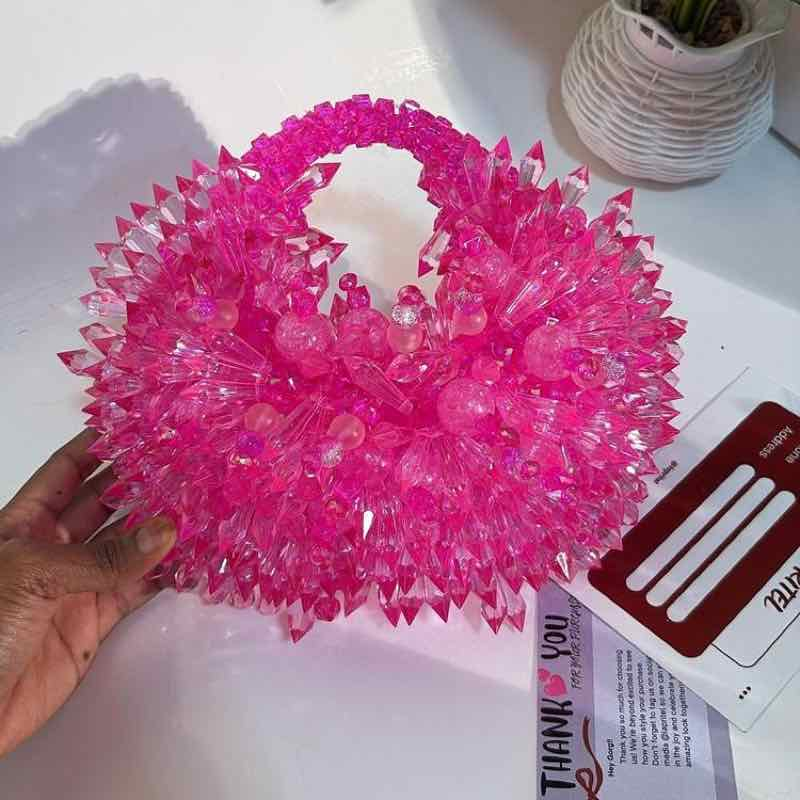
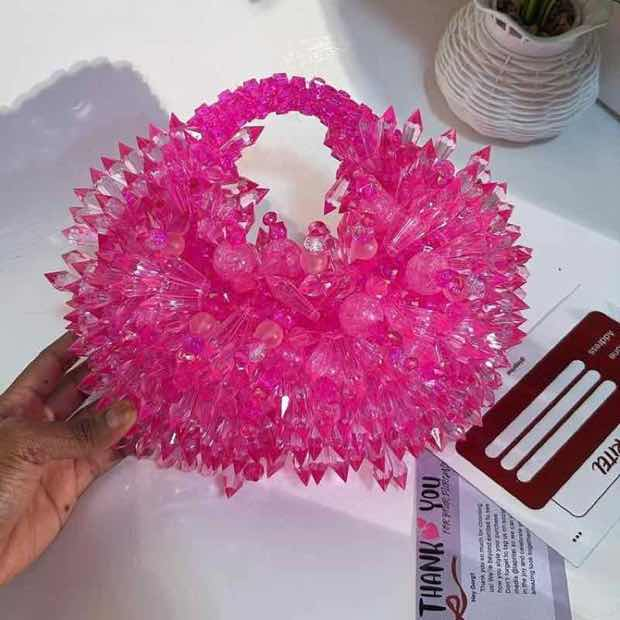
Fix the two PageSpeed findings: oversized images and render-blocking fonts
PageSpeed flagged ~433 KiB of wasted image bytes and ~980ms of
render-blocking time on mobile (LCP 4.4s, in the "poor" range).

Images: the Follow Along strip displays 4 bag photos at ~135px, but
was loading the full 800x800 originals (shared with larger contexts
elsewhere -- About page, Brand Story -- so the shared files couldn't
just be shrunk in place). Made dedicated ~270px thumbnail copies
specifically for that grid instead. The three Hero mobile background
images (green/hotpink/purple_mobile.jpg) are single-consumer, so those
were resized in place from 800x800 down to 620x620, matching their
actual ~412px CSS display size on a phone. Checked each visually
before and after -- no visible quality loss on any of them.

Fonts: the Karla Google Fonts stylesheet was loaded as a normal
render-blocking <link>, requiring a full connection to
fonts.googleapis.com before the page could paint anything (~750ms per
PageSpeed). Switched to the standard non-blocking pattern (preload +
media="print" swapped to "all" onload, with a noscript fallback for
JS-disabled browsers).

diff --git a/client/index.html b/client/index.html
@@ -31,10 +31,31 @@
 
     <link rel="preconnect" href="https://fonts.googleapis.com" />
     <link rel="preconnect" href="https://fonts.gstatic.com" crossorigin />
+    <!--
+      Loaded non-render-blocking: the stylesheet has media="print" (so the
+      browser fetches it without waiting on it to paint), then swaps to
+      "all" once it's actually loaded. PageSpeed measured this request
+      alone blocking first paint for ~750ms since it's a separate
+      fonts.googleapis.com connection. The noscript fallback covers
+      browsers with JS disabled.
+    -->
+    <link
+      rel="preload"
+      as="style"
+      href="https://fonts.googleapis.com/css2?family=Karla:wght@400;500;600;700;800&display=swap"
+    />
     <link
       href="https://fonts.googleapis.com/css2?family=Karla:wght@400;500;600;700;800&display=swap"
       rel="stylesheet"
+      media="print"
+      onload="this.media='all'"
     />
+    <noscript>
+      <link
+        href="https://fonts.googleapis.com/css2?family=Karla:wght@400;500;600;700;800&display=swap"
+        rel="stylesheet"
+      />
+    </noscript>
   </head>
   <body>
     <div id="root"></div>

diff --git a/client/src/components/InstagramStrip.jsx b/client/src/components/InstagramStrip.jsx
@@ -1,9 +1,12 @@
 import { Camera } from 'lucide-react'
 import Reveal from './Reveal'
-import ivyBagOrange from '../assets/images/ivy_bag_orange.jpg'
-import ivyBagWhite from '../assets/images/ivy_bag_white.jpeg'
-import ivyBagRed from '../assets/images/ivy_bag_red.jpg'
-import ivyBagBlack from '../assets/images/ivy_bag_black.jpg'
+// Dedicated small copies for this grid (displayed at ~135px) -- the plain
+// (non-thumb) files are shared with larger contexts elsewhere (About page,
+// Brand Story) and shouldn't be downsized.
+import ivyBagOrange from '../assets/images/ivy_bag_orange_thumb.jpg'
+import ivyBagWhite from '../assets/images/ivy_bag_white_thumb.jpeg'
+import ivyBagRed from '../assets/images/ivy_bag_red_thumb.jpg'
+import ivyBagBlack from '../assets/images/ivy_bag_black_thumb.jpg'
 import igVideo1 from '../assets/images/ivy_bag_ig_video1.mp4'
 import igVideo2 from '../assets/images/ivy_bag_ig_video2.mp4'
 
